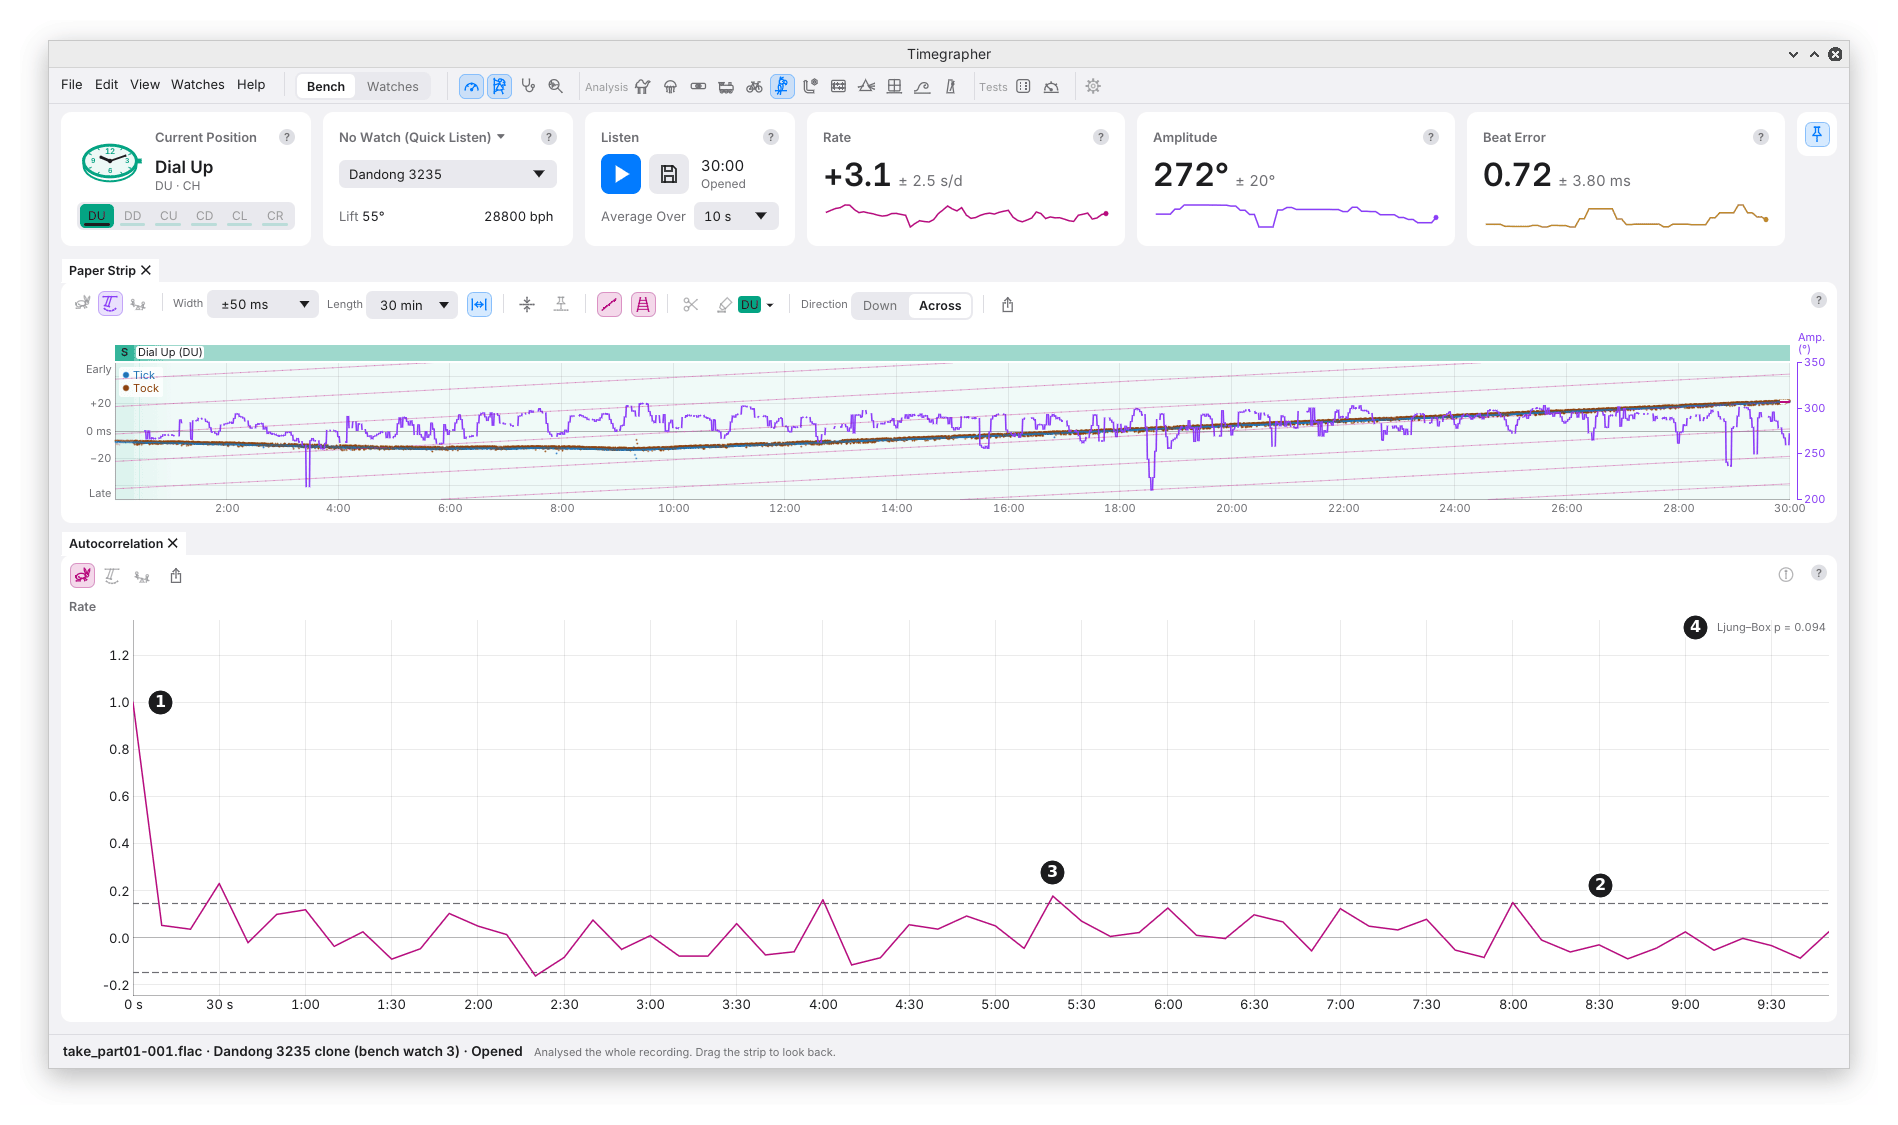
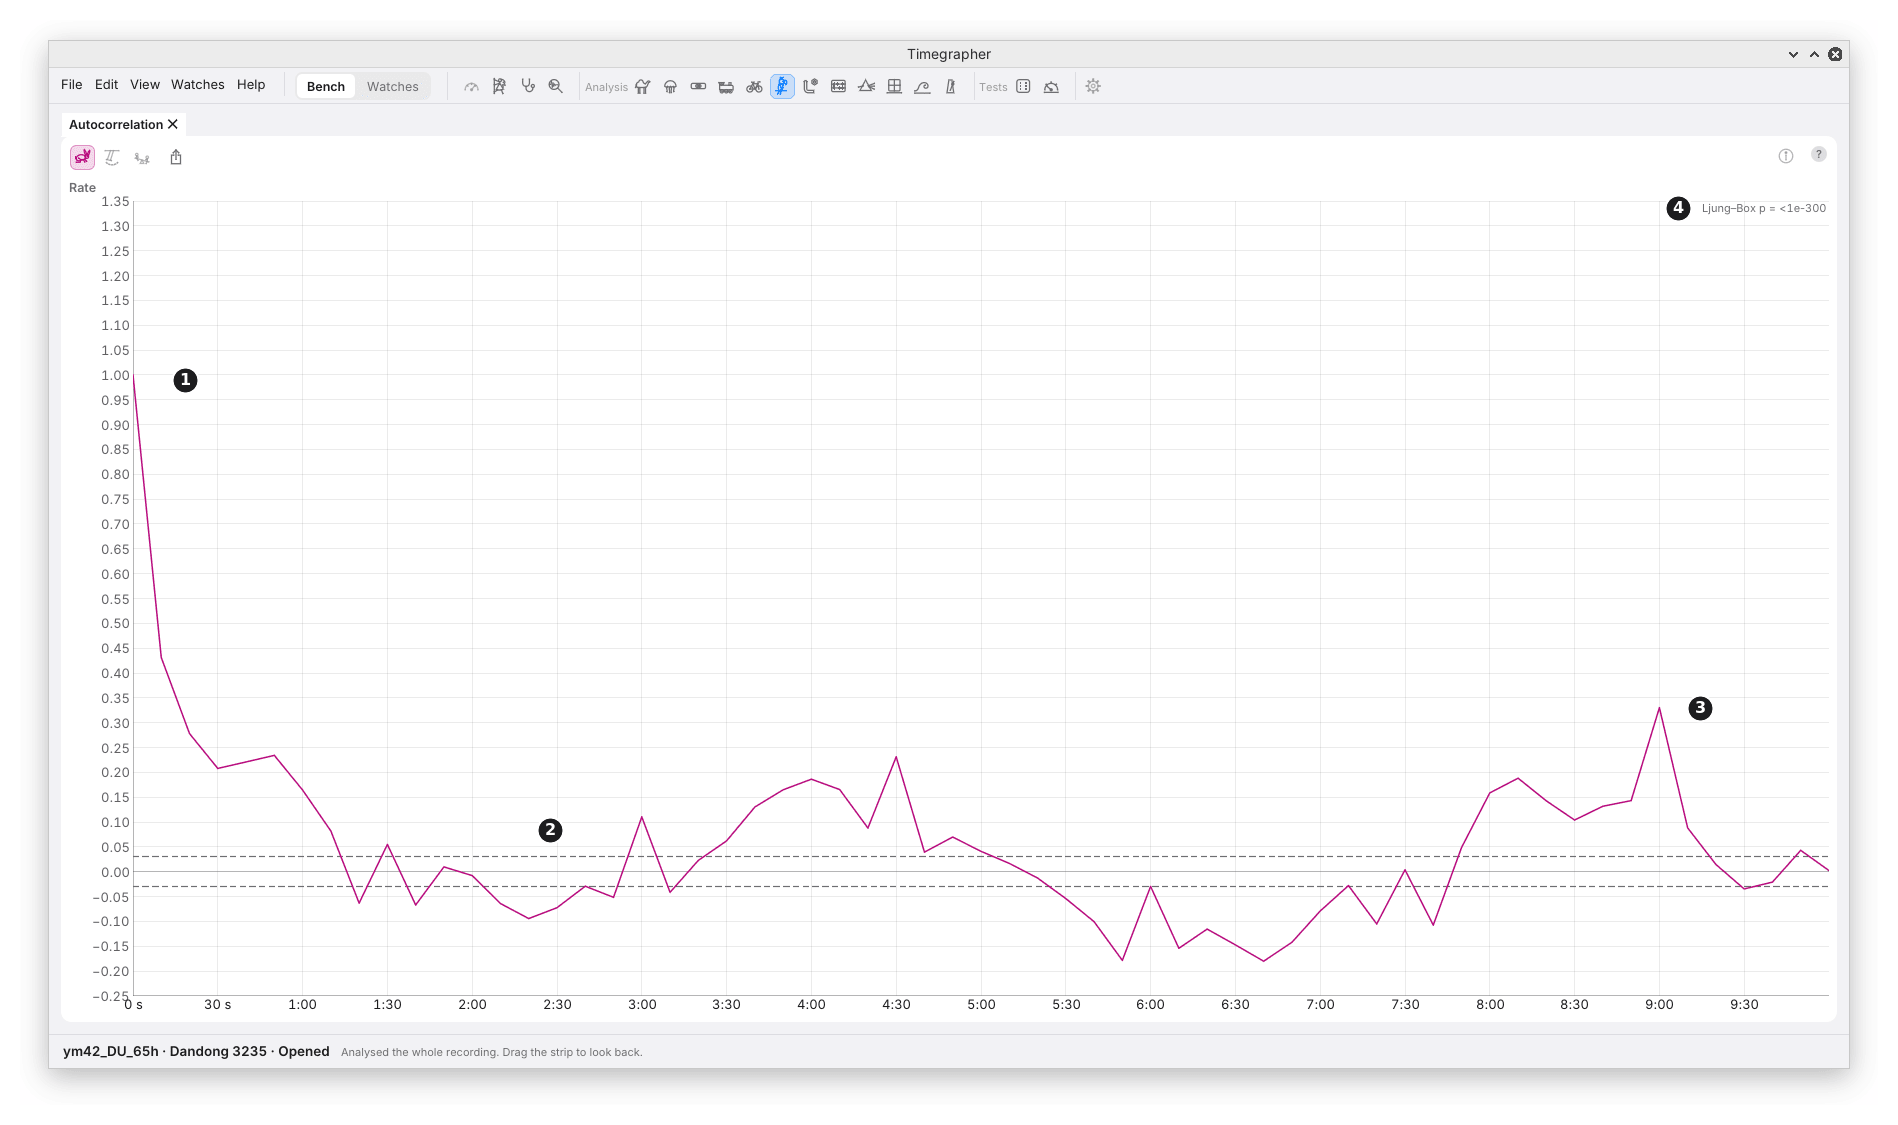
User guide: Steadiness figures from 12 hours of the run-down, captions to match
Periods, FFT, Cycle, Autocorrelation, Allan Deviation and CUSUM are
drawn from the first 12 hours of the same Dandong 3235 run-down, each
pane alone, with marks placed again, and each chapter says what its
picture shows a watchmaker.

Claude-Session: https://claude.ai/code/session_01QSxqxVf77FmFmJZGMCy8kd

diff --git a/docs/user-guide/11-periods.md b/docs/user-guide/11-periods.md
@@ -1,6 +1,6 @@
 # 11. Periods
 
-![Periods, the rate over a 30-minute take, marks 1 to 9](images/steady-periods.png)
+![Periods, the rate over the first 12 hours of a run-down, marks 1 to 9](images/steady-periods.png)
 
 **What it shows:** how strongly the readings repeat at each period, from
 seconds up to many minutes, on a log scale. A tall, narrow line is a
@@ -24,22 +24,35 @@ regular beat.
 
 | Mark | Part | What it shows |
 | --- | --- | --- |
-| 5 | The strongest line | Its period and, when it matches one, the wheel whose turn it matches: "5 s, Escape Wheel". |
+| 5 | The strongest line | When the search keeps a line, the strongest kept gets a dot and a note: its period and, when it matches one, the wheel whose turn it matches, "5 s, Escape Wheel". In the picture no line is kept (below), so the mark is on the tallest. |
 | 6 | The dashed line | The score a period needs for the search to list it: its 1% false-alarm level over the whole search. |
 | 7 | A wheel's period | A grey dotted line, named above the plot (inside its top on a short pane). |
 | 8 | Half a wheel's period | A fainter dotted line marked ×2: where a wheel that is off centre shows, twice a turn. Not drawn where another wheel already turns at that period. |
-| 9 | Another line | A line over the dashed line away from the wheels' marks. Here 15 s, a quarter of the fourth wheel's minute (below). |
+| 9 | Another line | A line away from the wheels' marks. Here 4 min, just under the dashed line: the cycle Cycle folds (chapter 12). |
 
 With no calibre picked, or none of its wheels known, one minute and one
 hour are marked in grey instead.
 
-**In the picture,** the rate repeats every 5 s, the escape wheel's
-period (it turns once in twice its teeth in beats: 20 teeth at
-28,800 bph give 5 s, 15 teeth give 3.75 s), and the fourth wheel's minute shows as a line at 1 min with
-taller ones at 30, 20 and 15 s: a half, a third and a quarter of a
-minute. A disturbance that is sharp rather than smooth spreads over these
-**harmonics** of its period, and they can stand taller than the period
-itself.
+**In the picture** are the first 12 hours of the Dandong 3235 run-down
+from chapter 8. Two lines stand far above the rest, each exactly on a
+wheel's mark. The tallest is at 5 s, the escape wheel's turn (it turns
+once in twice its teeth in beats: 20 teeth at 28,800 bph give 5 s,
+15 teeth give 3.75 s). The next is at 30 s, half the fourth wheel's
+minute, with a smaller line at the minute itself. A disturbance that is
+sharp rather than smooth spreads over the **harmonics** of its period,
+a half, a third, a quarter of it, and they can stand taller than the
+period itself. So in a few seconds' look the plot points at two wheels
+of the train, the escape wheel and the fourth wheel, and at nothing in
+between.
+
+Yet no line has a dot, and the headline names only the level change at
+47 minutes (chapter 15). The plot shows each period's score before any
+line is taken out; a line is kept only if, once the stronger ones are
+taken out, it still passes the dashed line, explains at least 0.5% of
+the movement in the beat timing, and passes the correction across every
+test (chapter 9). Over 12 hours the timing wanders slowly far more than
+over half an hour, so swings this small are too small a share of it to
+be named, though they stand out here.
 
 ## How It Is Worked Out
 

diff --git a/docs/user-guide/16-fft.md b/docs/user-guide/16-fft.md
@@ -1,6 +1,6 @@
 # 16. FFT (Fast Fourier Transform)
 
-![FFT of the rate over a 30-minute take, marks 1 to 6](images/steady-fft.png)
+![FFT of the rate over the first 12 hours of a run-down, marks 1 to 6](images/steady-fft.png)
 
 **What it shows:** the **amplitude spectrum** of each series, worked out
 by the **Fast Fourier Transform** (FFT), the standard way to split a
@@ -20,8 +20,8 @@ another timegrapher), this is where you read its size.
 | --- | --- | --- |
 | 1 | **Timing** | For the rate: draws the spectrum of the beat timing itself, in ms, at every period, in place of the swing in rate readings. Off at first, and greyed while Rate is off. |
 | 2 | **Wheel Periods** | Marks the calibre's wheels' periods. On at first; this pane only. With no calibre picked, or none of its wheels known, it marks one minute and one hour in grey instead. |
-| 3 | The input line | How much of the series the spectrum was read from: "FFT input: 7113 of 7120 grid samples available", and how missing samples were handled. |
-| 4 | The tallest peak | The highest point above both its neighbours, with its period and size: "tallest peak at 30 s: 3.2 s/d peak to peak". |
+| 3 | The input line | How much of the series the spectrum was read from: "FFT input: 172584 of 172717 grid samples available", and how missing samples were handled. |
+| 4 | The tallest peak | The highest point above both its neighbours, with its period and size: "tallest peak at 4 min: 5.3 s/d peak to peak". |
 | 5 | Twice a turn | A fainter dotted line marked ×2, at half a wheel's period. |
 | 6 | A wheel's period | A bold dotted line, named above the plot. |
 
@@ -42,10 +42,17 @@ default shows what the rate readings themselves would show. **Timing**
 shows the swing as the beats have it, including periods far faster than
 a reading, such as the escape wheel's 5 s.
 
-**In the picture,** the tallest peak is at 30 s, 3.2 s/d peak to peak:
-twice a turn of the fourth wheel, or the second harmonic of its once a
-minute (chapter 11). The fourth wheel's minute itself stands at about
-1.5 s/d. The escape wheel's 5 s is under the 20 s the rate readings can
+**In the picture** are the first 12 hours of the Dandong 3235 run-down
+from chapter 8. Most of the spectrum lies between about 0.3 and 1 s/d:
+the readings' random scatter, spread over every period. Standing clear
+of it, each on its dotted line, are the fourth wheel's minute and its
+half minute, each about 3 s/d peak to peak, and the tallest peak, at
+4 minutes, 5.3 s/d: the cycle that Cycle (chapter 12) folds, which
+matches no wheel of the calibre. Twelve hours of readings place each
+period finely, so a line is narrow and sits exactly where it is; the
+neighbouring spikes of 1 to 3 s/d are what a take this long resolves of
+the scatter, and Periods (chapter 11) says which of them are beyond
+doubt. The escape wheel's 5 s is under the 20 s the rate readings can
 show, so it is in the Timing spectrum only.
 
 ## How It Is Worked Out

diff --git a/docs/user-guide/12-cycle.md b/docs/user-guide/12-cycle.md
@@ -1,6 +1,6 @@
 # 12. Cycle
 
-![Cycle, the rate folded at the third wheel's turn, marks 1 to 5](images/steady-cycle.png)
+![Cycle, the rate over 12 hours folded at the amplitude's 4-minute cycle, marks 1 to 5](images/steady-cycle.png)
 
 **What it shows:** the readings folded at one period, so each cycle is
 laid over the one before. Along the bottom is the time into the cycle,
@@ -25,10 +25,10 @@ take.
    search listed one: "60 s cycle,
    Fourth Wheel, 30 cycles folded".
 2. **Another series' cycle,** when this series has none: "Folded at the
-   rate's 60 s cycle, 30 cycles". It then shows whether the same
-   cycle is in this series too.
+   amplitude's 4 min cycle, 168 cycles", as in the picture. It then
+   shows whether the same cycle is in this series too.
 3. **The longest wheel's turn that fits,** when no series has a cycle:
-   "Folded at the third wheel's 9 min turn, 4 cycles", as in the picture.
+   "Folded at the third wheel's 9 min turn, 4 cycles".
 
 A period is used only when it is at least three readings long and the
 take holds at least two turns of it.
@@ -42,10 +42,22 @@ The note compares two sizes:
   point of the cycle.
 
 A real cycle swings well clear of the scatter: the line's swing is large
-beside the boxes' height, and the boxes follow the line. In the picture
-the line swings 4.9 s/d against boxes 1.9 s/d high, but with only 4
-cycles the line follows the scatter of a few readings. The tests found no
-cycle in the rate's readings here, and the zigzag is that scatter.
+beside the boxes' height, and the boxes follow the line. With few cycles
+folded, the line can zigzag with the scatter of a few readings at each
+point; with many, the scatter averages out and a smaller cycle shows.
+
+**In the picture** are the first 12 hours of the Dandong 3235 run-down
+from chapter 8. The tests found a 4-minute cycle in the amplitude
+(chapter 9), and none in the rate, so the rate is folded at the
+amplitude's cycle: 168 cycles laid over each other. The rate follows it.
+The line falls to about −72 s/d near 1:45 into the cycle and rises to
+about −63 s/d near 3:30, one smooth swing of 8.8 s/d, and the boxes
+move with it. Each reading scatters about as much (the boxes are 9.7 s/d
+high), so no reading, and no card, would show this swing; folding
+168 cycles does. The dots of every colour lie mixed together, so it
+held through the 12 hours. Four minutes matches none of the wheel
+periods the calibre table gives for this movement (chapter 11 marks
+them).
 
 ## What to Look For
 

diff --git a/docs/user-guide/14-allan-deviation.md b/docs/user-guide/14-allan-deviation.md
@@ -1,6 +1,6 @@
 # 14. Allan Deviation
 
-![Allan Deviation of the rate over a 30-minute take, marks 1 to 5](images/steady-allan.png)
+![Allan Deviation of the rate over the first 12 hours of a run-down, marks 1 to 5](images/steady-allan.png)
 
 **What it shows:** how much the average of the readings scatters as the
 average gets longer. Along the bottom is the **averaging time**, τ (tau);
@@ -41,15 +41,20 @@ the standard way clocks and oscillators are compared for stability (M9).
 | What you see | What it can mean |
 | --- | --- |
 | The curve on or below the dashed line all the way | The readings jitter from moment to moment and nothing more. A longer average is always steadier. |
-| The curve leaves the dashed line and flattens | The readings wander: past that time, averaging longer doesn't help. As in the picture, from about a minute. |
+| The curve leaves the dashed line and flattens | The readings wander: past that time, averaging longer doesn't help. As in the picture, from the first average. |
 | The curve rises towards the right | Drift or slow wander: the longer the average, the more it differs from the next. |
 | A bump | A cycle. A cycle of period P lifts the curve near 0.37 P. |
 
-**In the picture,** the curve follows the dashed line up to about 40 s,
-then flattens: the least scatter is 0.77 s/d, at an average of 160 s
-(labelled to the nearest minute, "3 min"), and averages of 5 minutes
-scatter more. The rate here slides slowly through the take (chapter 10),
-and a slide shows this way.
+**In the picture** are the first 12 hours of the Dandong 3235 run-down
+from chapter 8. Single 10 s readings scatter by about 5 s/d. Were they
+independent, an hour's average would scatter by about 0.3 s/d, the
+dashed line. Instead the curve leaves the line at once and hardly falls:
+the least scatter is 2.39 s/d, for averages of 11 minutes, and averages
+of 20 to 40 minutes scatter more again, about 3 s/d, lifted by the slow
+changes Readings Over Time shows (chapter 10). What it means at the
+bench: on this watch, two readings taken one after the other, each
+averaged over 10 minutes, typically differ by about 3 s/d, and averaging
+longer doesn't narrow that.
 
 **In the Info panel,** when the curve stands at least twice the dashed
 line at any averaging time with 8 or more independent pairs, the tests

diff --git a/docs/user-guide/15-cusum-and-change-points.md b/docs/user-guide/15-cusum-and-change-points.md
@@ -1,6 +1,6 @@
 # 15. CUSUM (Cumulative Sum) and Change Points
 
-![CUSUM of the rate over a 30-minute take, marks 1 to 3](images/steady-cusum.png)
+![CUSUM of the rate over the first 12 hours of a run-down, marks 1 to 3](images/steady-cusum.png)
 
 **What it shows:** the **CUSUM**, the cumulative sum: the running total of
 each reading's distance from the mean of all of them, scaled so that the
@@ -17,7 +17,7 @@ wind or a change in the watch that you suspect moved the rate.
 | --- | --- | --- |
 | 1 | The CUSUM | The running total, against the time of the take. |
 | 2 | The dashed lines | ±1.36: readings with no change of level, correlated or not, stay inside them about 95 times in 100. |
-| 3 | The largest excursion | The point furthest from 0. When the headline names a level change, the corner nearest it gets a dot and a note, "level changes near 12:30". |
+| 3 | The largest excursion | The point furthest from 0. When the headline names a level change, the corner nearest it gets a dot and a note, "level changes near 47:00". |
 
 ## Reading the Shape
 
@@ -30,11 +30,15 @@ they are over it. So:
   in one step.
 - **A wander inside the lines** is no change of level.
 
-**In the picture,** the total falls to −5 at about 9 minutes, then rises
-back to 0: the rate was under its mean for the first part of the take and
-over it for the rest. The headline names a slide, "Rate changes slowly",
-not a level change, so no corner is marked; Readings Over Time draws the
-slide as its two steps (chapter 10).
+**In the picture** are the first 12 hours of the Dandong 3235 run-down
+from chapter 8. The total climbs steeply from the start, far past the
+dashed line, and turns sharply at 47 minutes: the corner of a tent, the
+step from a fast first stretch to a slower level. The headline names it,
+and the corner is marked "level changes near 47:00". From there to about
+5 hours the total drifts gently up, then slides down to 9½ hours: the
+rate a little over its mean, then a little under it: changes too small
+beside the scatter for any single reading to show. The steeper fall near
+9 hours is the dip that Readings Over Time shows there (chapter 10).
 
 ## Change Points
 

diff --git a/docs/user-guide/13-autocorrelation.md b/docs/user-guide/13-autocorrelation.md
@@ -1,6 +1,6 @@
 # 13. Autocorrelation
 
-![Autocorrelation of the rate over a 30-minute take, marks 1 to 4](images/steady-autocorrelation.png)
+![Autocorrelation of the rate over the first 12 hours of a run-down, marks 1 to 4](images/steady-autocorrelation.png)
 
 **What it shows:** how much each reading resembles the one a given time
 later, the **lag**, from 0 up to 10 minutes, or a third of the take if
@@ -44,13 +44,22 @@ When the line falls and then rises back to a peak, the readings
 
 | What you see | What it can mean |
 | --- | --- |
-| A drop to about 0 after lag 0, then inside the band | Independent readings: each one a fresh draw. As in the picture. |
-| A slow fall over several lags | Each reading follows the last: the watch wanders. The ± allows for it (M7). |
+| A drop to about 0 after lag 0, then inside the band | Independent readings: each one a fresh draw. |
+| A slow fall over several lags | Each reading follows the last: the watch wanders. The ± allows for it (M7). As in the picture. |
 | A fall and a rise to a peak | The readings repeat at the peak's lag. |
 | A Ljung–Box p under 0.05 | Resemblance across the first 10 lags, beyond chance. The headline names it only if it also passes Holm's correction (chapter 9). |
 
-In the picture, the rate's readings are close to independent: a few lags
-touch the band, and the Ljung–Box p is 0.094.
+**In the picture** are the first 12 hours of the Dandong 3235 run-down
+from chapter 8: 4317 rate readings, so the band is narrow, ±0.03. The
+readings are far from independent. Each 10 s reading resembles the next
+by 0.43, and the resemblance lasts about a minute before it first falls
+inside the band. After that the line swings well outside the band on
+both sides in a slow wave, up near 4 and 8 to 9 minutes, down near 2
+and 6 minutes: the same rise and fall every few minutes that Cycle
+(chapter 12) folds. The Ljung–Box p is under 10⁻³⁰⁰. So a ± worked out
+as if each reading were a fresh draw would be far too small, which is
+why the app's ± allows for it (M7); a 10 s reading on this watch is not
+ten independent seconds' worth of evidence.
 
 ## What It Can't Tell You
 
